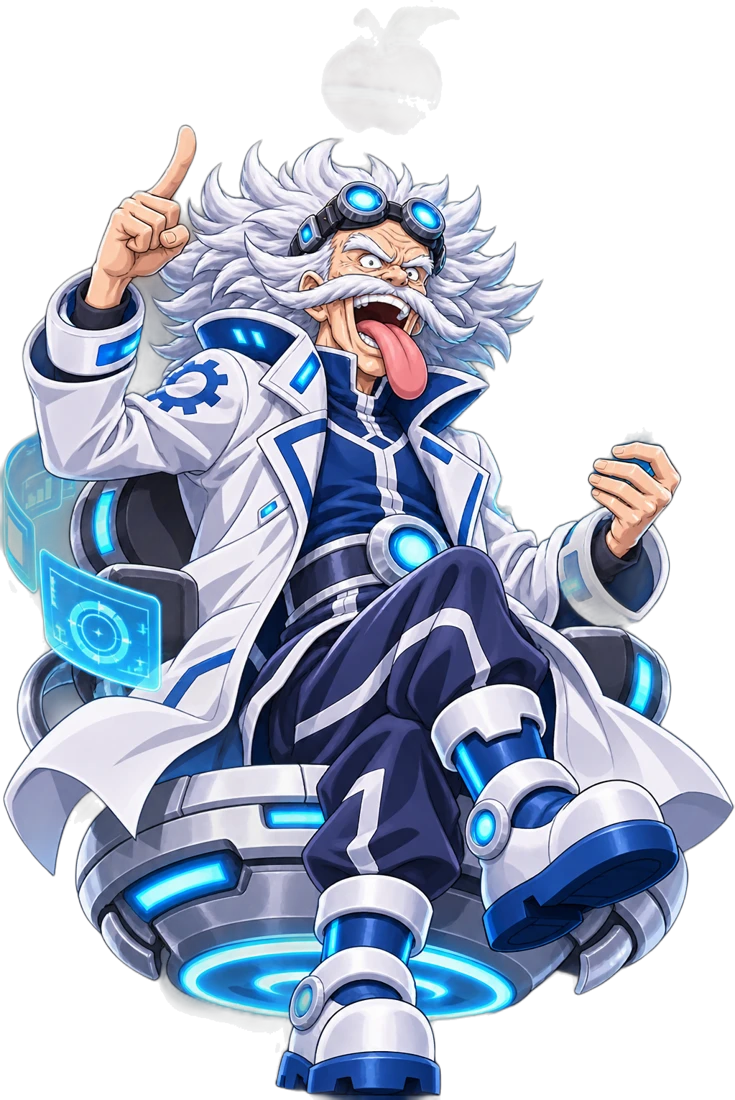
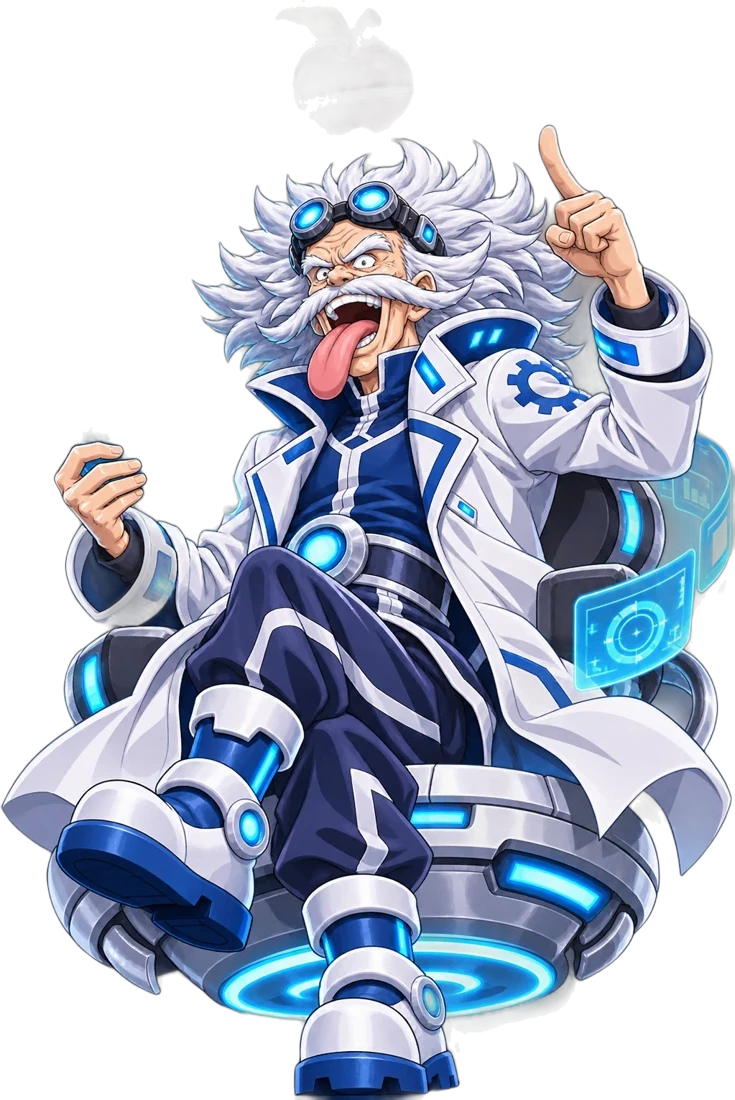
v227: 開什換立繪、艾恩斯坦克鏡射、司諾／緋亞／開什／厄布立繪尺寸
Claude-Session: https://claude.ai/code/session_01QdhywRXf3CPbK6yPmqVdsn

diff --git a/js/orig_v226.js b/js/orig_v226.js
@@ -4,24 +4,24 @@
    這個檔案要放在所有角色資料與介紹（content_v180 等）之後載入。 */
 (function () {
   if (typeof CHARACTERS === 'undefined') return;
-  const IMG = (n) => `assets/chars/${n}.webp?v=226`;
+  const IMG = (n) => `assets/chars/${n}.webp?v=227`; /* v227：開什換立繪、艾恩斯坦克鏡射 */
   const O = {
-    kid: { name: '司諾', title: '新世代之星・磁力人', image: IMG('snow'), avatar: IMG('snow_face'), battleScale: .75,
+    kid: { name: '司諾', title: '新世代之星・磁力人', image: IMG('snow'), avatar: IMG('snow_face'), battleScale: .6,
       desc: '被磁魂之心灌輸，獲得控制磁力的能力者。是大海上被稱為「新世代強者」之一的新星。' },
     vegapunk: { name: '艾恩斯坦克', title: '世界最聰明的人', image: IMG('einstank'), avatar: IMG('einstank_face'), battleScale: .35,
       desc: '被智魂之心灌輸，獲得無限容納知識的大腦。是當今全世界最聰明的人。' },
-    gunko: { name: '緋亞', title: '神之使徒', image: IMG('fia'), avatar: IMG('fia_face'), ultimateBg: IMG('fia_dark'), battleScale: .65,
+    gunko: { name: '緋亞', title: '神之使徒', image: IMG('fia'), avatar: IMG('fia_face'), ultimateBg: IMG('fia_dark'), battleScale: .55,
       desc: '神之使徒之一，擁有不死之身與方位之心的能力，疑似是失去記憶的某國公主，真相不得而知。' },
     gaban: { name: '真柒', title: '海賊王的左右手', image: IMG('shin'), avatar: IMG('shin_face'), battleScale: .85,
       desc: '傳說中海賊王的左右手，目前隱居在巨人島上，等待著傳說中的英雄出現。與巨人族女子瑟利姆生下一子。' },
-    sanji: { name: '厄布', title: '海上餐廳一流廚師', image: IMG('ebu'), avatar: IMG('ebu_face'), battleScale: .7,
+    sanji: { name: '厄布', title: '海上餐廳一流廚師', image: IMG('ebu'), avatar: IMG('ebu_face'), battleScale: .6,
       desc: '海上餐廳的一流廚師，擅長使用腿腳攻擊對手。' },
-    zoro: { name: '開什', title: '三刀流海賊獵人', image: IMG('kaish'), avatar: IMG('kaish_face'), battleScale: .7,
+    zoro: { name: '開什', title: '三刀流海賊獵人', image: IMG('kaish'), avatar: IMG('kaish_face'), battleScale: .6,
       desc: '立志成為世界第一劍豪的海賊獵人，是個刻苦訓練的三刀流劍士。因誤會被海軍抓走虐待，被主角救出後，一同出海成為海賊。' }
   };
   Object.entries(O).forEach(([id, o]) => { const c = CHARACTERS[id]; if (!c) return; Object.assign(c, o); if (!o.ultimateBg) c.ultimateBg = o.image; });
   /* 卡片、特寫鏡頭用的臉部位置（立繪寬高的比例） */
-  window.CHAR_FACE = Object.assign(window.CHAR_FACE || {}, {"assets/chars/snow.webp": [0.55, 0.11, 0.141], "assets/chars/einstank.webp": [0.547, 0.212, 0.188], "assets/chars/fia.webp": [0.518, 0.079, 0.12], "assets/chars/shin.webp": [0.555, 0.134, 0.125], "assets/chars/ebu.webp": [0.522, 0.091, 0.243], "assets/chars/kaish.webp": [0.498, 0.08, 0.111]});
+  window.CHAR_FACE = Object.assign(window.CHAR_FACE || {}, {"assets/chars/snow.webp": [0.55, 0.11, 0.141], "assets/chars/einstank.webp": [0.453, 0.212, 0.188], "assets/chars/fia.webp": [0.518, 0.079, 0.12], "assets/chars/shin.webp": [0.555, 0.134, 0.125], "assets/chars/ebu.webp": [0.522, 0.091, 0.243], "assets/chars/kaish.webp": [0.444, 0.068, 0.148]});
   /* 緋亞第五招「黑轉支配」的晉升立繪 */
   try { CHARACTERS.gunko.skills.forEach(k => { if (k.effect && k.effect.formImage) k.effect.formImage.image = IMG('fia_dark'); }); } catch (e) { }
   const S = (name, type, pp, power, desc, tags, anima, effect, ult) => ({ name, type, pp, maxPP: pp, power, accuracy: 100, desc, tags, anima, effect, ...(ult ? { ultimate: true } : {}) });

diff --git a/js/settings.js b/js/settings.js
@@ -2,7 +2,7 @@
 window.addEventListener('beforeinstallprompt', e => { e.preventDefault(); window.__installPrompt = e; });
 /* 設定頁（大廳「設定」與首頁「設定」共用）＋ 新手教學（大廳聚光燈導覽）。
    設定存在 localStorage：op_gfx（畫質）、op_motion（減少動態）、op_bspeed（預設戰鬥速度）、op_vibe（震動回饋）、op_live_pop（即時對戰邀請通知）、op_text（文字大小）、op_fxpro（技能特效高／低，v138）。 */
-const GAME_VERSION = 'v226';
+const GAME_VERSION = 'v227';
 /* v148：目前的畫質（沒選過時：電腦＝極致、手機平板＝高畫質，和 e3three.js 的 E3_ULTRA 規則相同） */
 function gfxNow() { try { const g = localStorage.getItem('op_gfx'); if (g) return g; return !matchMedia('(pointer:coarse)').matches && Math.min(screen.width, screen.height) >= 700 && (navigator.deviceMemory || 8) >= 6 ? 'ultra' : 'high'; } catch (e) { return 'high'; } }
 (function () {

diff --git a/index.html b/index.html
@@ -687,7 +687,7 @@
 <script src="js/social.js?v=5039f966"></script>
 <script src="js/live.js?v=a72b8a00"></script>
 <script src="js/guild.js?v=29180bc0"></script>
-<script src="js/settings.js?v=97ebf302"></script>
+<script src="js/settings.js?v=2f875df6"></script>
 <script src="js/weekly.js?v=f081cba8"></script>
 <script src="js/event.js?v=18edc224"></script>
 <script src="js/music.js?v=e9e817e7"></script>
@@ -726,10 +726,10 @@
 <script src="js/perf_v194.js?v=9364b81f"></script>
 <script src="js/battle_v195.js?v=889e022b"></script>
 <script src="js/fx_skills.js?v=3a87d44c"></script>
-<script src="js/size_v209.js?v=041ed854"></script>
+<script src="js/size_v209.js?v=a590fc9f"></script>
 <script src="js/status.js?v=a1c79d44"></script>
 <script src="js/items_v220.js?v=73bb8193"></script>
-<script src="js/orig_v226.js?v=1485652b"></script>
+<script src="js/orig_v226.js?v=76e54aa7"></script>
 <script src="js/loader.js?v=7321770e"></script>
 </body>
 </html>

diff --git a/js/size_v209.js b/js/size_v209.js
@@ -3,7 +3,7 @@
    注意：玩家自己在「立繪調整」存過的數值（localStorage op_visual_v1）仍然優先。 */
 (function () {
   if (typeof CHARACTERS === 'undefined') return;
-  const SZ = { rocks: 1.5, rayleigh: .5, shamrock: .55, york: .8, kinemon: .9, kid: .75, reiju: .8, vergo: 1.25, monet: 1, shirahoshi: 1.25, perona: .9,
+  const SZ = { rocks: 1.5, rayleigh: .5, shamrock: .55, york: .8, kinemon: .9, kid: .6, reiju: .8, vergo: 1.25, monet: 1, shirahoshi: 1.25, perona: .9,
     enel: 1.3, wiper: 1, vivi: .75, kaido: 1.8, luffy_nika: 1.4, moria: 1.5, doflamingo: .95, koby_hc: .85, garp_hc: 1.3 };
   Object.entries(SZ).forEach(([id, v]) => { if (CHARACTERS[id]) CHARACTERS[id].battleScale = v; });
 })();

diff --git a/CHANGELOG.md b/CHANGELOG.md
@@ -3,6 +3,9 @@
 每累積約 20 個版本統整一次。逐版的完整紀錄（v1～v97）保存在 [docs/archive/README_v1-v97_完整更新紀錄.md](docs/archive/README_v1-v97_完整更新紀錄.md)。
 
 ## 未統整（v98 起，下次在 v118 左右統整）
+### v227（使用者 11/14 22:32）
+- 艾恩斯坦克立繪與頭像左右鏡射；開什立繪換成新圖（去背、重裁頭像）。
+- 戰鬥立繪尺寸：司諾 0.6、緋亞 0.55、開什 0.6、厄布 0.6。
 ### v226（使用者 11/14 22:10：角色陸續換成原創角色）
 - js/orig_v226.js（放在所有角色資料之後）：角色 id 不變（存檔、陣容、碎片沿用），換名字、稱號、介紹、立繪、頭像、戰鬥尺寸：
   基德（電磁炮）→ 司諾（0.75）、貝加龐克 → 艾恩斯坦克（0.35）、軍子君 → 緋亞（0.65，第五招「黑轉支配」晉升立繪換成使用者的圖）、賈巴 → 真柒（0.85）、初登場香吉士 → 厄布（0.7）、初登場索隆 → 開什（0.7）。
